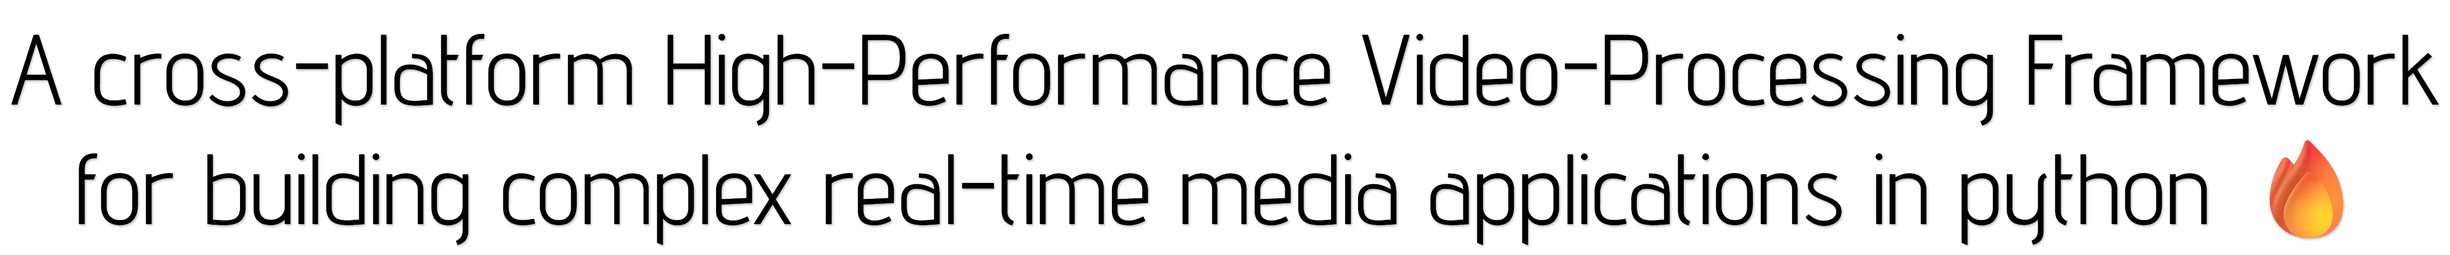
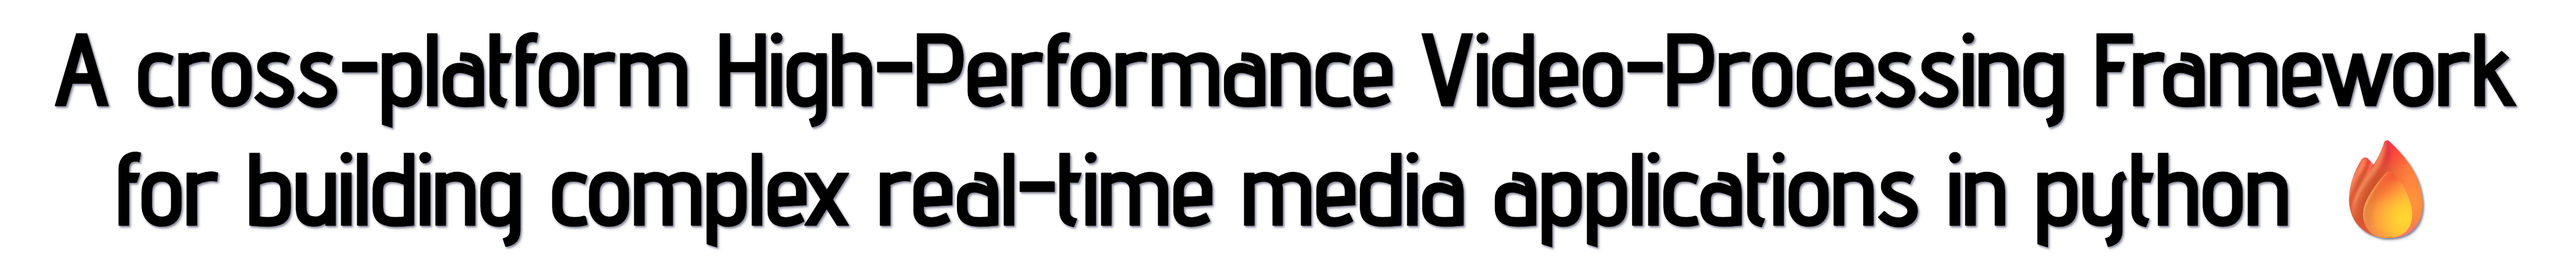
✨ Adjust image sizes in README for better visual consistency and update section headers for clarity

Changed region(s): [[0.0, 0.125, 0.9951, 0.5], [0.0311, 0.5625, 0.964, 0.9688], [0.7463, 0.5938, 0.7774, 0.625]]

diff --git a/README.md b/README.md
@@ -19,10 +19,10 @@ limitations under the License.
 -->
 
 <h1 align="center">
-  <img src="https://abhitronix.github.io/vidgear/latest/assets/images/vidgear.png" alt="VidGear" title="Logo designed by Abhishek Thakur(@abhiTronix), under CC-BY-NC-SA 4.0 License" width="70%"/>
+  <img src="https://abhitronix.github.io/vidgear/latest/assets/images/vidgear.png" alt="VidGear" title="Logo designed by Abhishek Thakur(@abhiTronix), under CC-BY-NC-SA 4.0 License" width="75%"/>
 </h1>
 <h1 align="center">
-  <img src="docs/overrides/assets/images/tagline_new.png" alt="VidGear tagline" width="75%"/>
+  <img src="docs/overrides/assets/images/tagline_new.png" alt="VidGear tagline" width="70%"/>
 </h1>
 
 <div align="center">
@@ -49,7 +49,7 @@ limitations under the License.
 
 &thinsp;
 
-# Overview
+# Project Overview
 
 VidGear provides an easy-to-use, highly extensible, thoroughly optimised **Multi-Threaded + Asyncio API Framework** on top of many state-of-the-art specialized libraries like _[OpenCV][opencv], [FFmpeg][ffmpeg], [ZeroMQ][zmq], [picamera2][picamera2], [starlette][starlette], [yt_dlp][yt_dlp], [pyscreenshot][pyscreenshot], [dxcam][dxcam], [aiortc][aiortc] and [python-mss][mss]_ serving at its backend, and enable us to flexibly exploit their internal parameters and methods, while silently delivering **robust error-handling and real-time performance 🔥**
 
@@ -89,15 +89,15 @@ The following **functional block diagram** clearly depicts the generalized funct
 
 ## TL;DR
 
-#### What is vidgear?
+### What is vidgear?
 
 > _"VidGear is a cross-platform High-Performance Framework that provides an one-stop **Video-Processing** solution for building complex real-time media applications in python."_
 
-#### What does it do?
+### What does it do?
 
 > _"VidGear can read, write, process, send & receive video files/frames/streams from/to various devices in real-time, and [**faster**][tqm-doc] than underline libraries."_
 
-#### What is its purpose?
+### What is its purpose?
 
 > _"Write Less and Accomplish More"_ — **VidGear's Motto**
 
